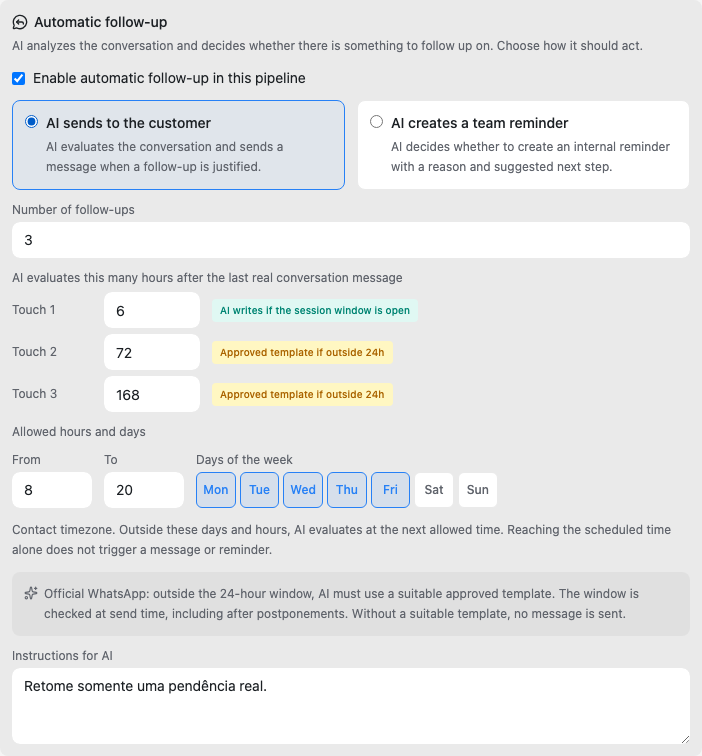
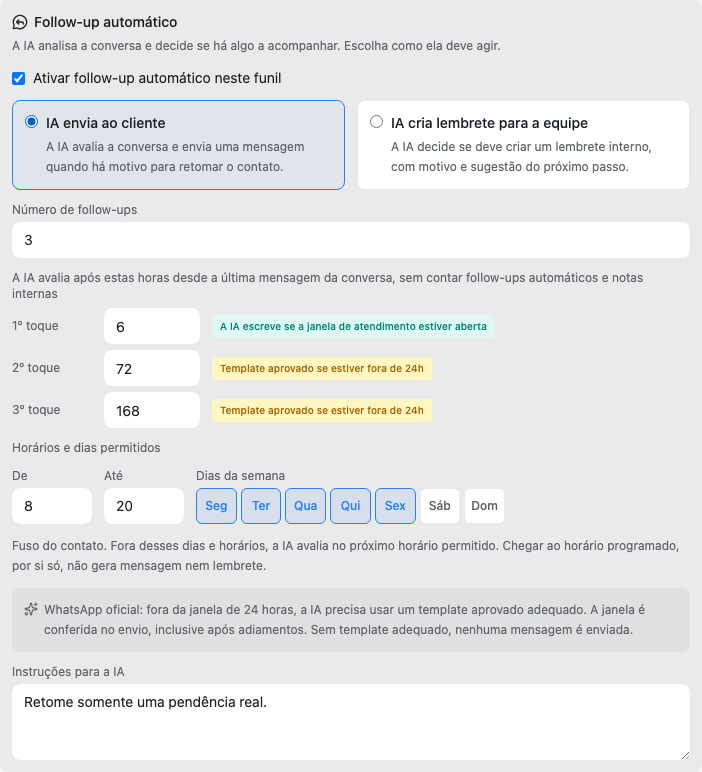
fix(crm): localize AI follow-up controls and reminders

diff --git a/app/javascript/dashboard/routes/dashboard/crm/components/CrmAiSettingsPanel.spec.js b/app/javascript/dashboard/routes/dashboard/crm/components/CrmAiSettingsPanel.spec.js
@@ -3,6 +3,7 @@ import { createI18n } from 'vue-i18n';
 import Panel from './CrmAiSettingsPanel.vue';
 import CrmKanbanAPI from 'dashboard/api/crmKanban';
 import en from 'dashboard/i18n/locale/en/crm.json';
+import pt_BR from 'dashboard/i18n/locale/pt_BR/crm.json';
 
 vi.mock('dashboard/composables', () => ({ useAlert: vi.fn() }));
 vi.mock('dashboard/api/crmKanban', () => ({
@@ -21,7 +22,7 @@ const config = () => ({
     tone_instructions: 'Retome apenas pendências reais.',
   },
 });
-const render = async () => {
+const render = async (locale = 'en') => {
   CrmKanbanAPI.getAiSettings.mockResolvedValue({ data: { payload: config() } });
   CrmKanbanAPI.updateAiSettings.mockImplementation(async (_id, body) => ({
     data: { payload: body.ai_settings },
@@ -29,7 +30,14 @@ const render = async () => {
   const wrapper = mount(Panel, {
     props: { pipelineId: 426 },
     global: {
-      plugins: [createI18n({ legacy: false, locale: 'en', messages: { en } })],
+      plugins: [
+        createI18n({
+          legacy: false,
+          locale,
+          fallbackLocale: false,
+          messages: { en, pt_BR },
+        }),
+      ],
     },
   });
   await flushPromises();
@@ -82,6 +90,24 @@ describe('AI follow-up settings', () => {
     expect(wrapper.text()).toContain('Official WhatsApp');
     wrapper.unmount();
   });
+  it('renders both actions in Portuguese without English fallback', async () => {
+    const wrapper = await render('pt_BR');
+    expect(wrapper.text()).toContain('IA envia ao cliente');
+    expect(wrapper.text()).toContain('WhatsApp oficial:');
+    expect(wrapper.get('button[aria-label="Segunda-feira"]').text()).toBe(
+      'Seg'
+    );
+    await wrapper.get('input[value="ai_reminder"]').setValue(true);
+    expect(wrapper.text()).toContain('Nenhuma mensagem é enviada ao cliente.');
+    expect(wrapper.text()).toContain('Instruções para a IA');
+    expect(wrapper.text()).not.toContain('WhatsApp oficial:');
+    expect(wrapper.text()).not.toContain('CRM_KANBAN.');
+    expect(
+      pt_BR.CRM_KANBAN.DRAWER.AUTO_FOLLOWUP.TIMELINE_TOUCH_REMINDER
+    ).toContain('lembrete para a equipe');
+    wrapper.unmount();
+  });
+
   it('reports failure to the parent when persistence fails', async () => {
     const wrapper = await render();
     CrmKanbanAPI.updateAiSettings.mockRejectedValue(new Error('unavailable'));

diff --git a/app/javascript/dashboard/components/crm/CrmFollowUpReminderModal.vue b/app/javascript/dashboard/components/crm/CrmFollowUpReminderModal.vue
@@ -8,7 +8,7 @@ import { useCrmFollowUpReminders } from 'dashboard/composables/useCrmFollowUpRem
 import { BUS_EVENTS } from 'shared/constants/busEvents';
 import { frontendURL } from 'dashboard/helper/URLHelper';
 
-const { t } = useI18n();
+const { t, locale } = useI18n();
 const router = useRouter();
 const isSaving = ref(false);
 
@@ -29,7 +29,7 @@ const cardTitle = computed(() => activeReminder.value?.card?.title || '');
 const dueLabel = computed(() => {
   const dueAt = activeReminder.value?.due_at;
   if (!dueAt) return '';
-  return new Date(dueAt).toLocaleString();
+  return new Date(dueAt).toLocaleString(locale.value.replace('_', '-'));
 });
 const modeLabel = computed(() => {
   if (activeReminder.value?.automation_mode === 'snooze_conversation') {

diff --git a/spec/services/crm/follow_ups/auto_followup_runner_spec.rb b/spec/services/crm/follow_ups/auto_followup_runner_spec.rb
@@ -268,6 +268,13 @@ RSpec.describe Crm::FollowUps::AutoFollowupRunner do
       expect(follow_up.card.reload.metadata.dig('ai', 'auto_followup_state', 'touches').last['outcome']).to eq('reminded')
     end
 
+    it 'localizes the reminder title using the account language' do
+      follow_up = reminder_setup
+      follow_up.account.update!(locale: 'pt_BR')
+      described_class.new(follow_up: follow_up, now: now).perform
+      expect(follow_up.reload.title).to eq('Lembrete da IA 1')
+    end
+
     it 'does not create a reminder when AI declines' do
       follow_up = reminder_setup
       stub_composition(status_notice.merge('should_send' => false))

diff --git a/app/services/crm/follow_ups/auto_followup_runner.rb b/app/services/crm/follow_ups/auto_followup_runner.rb
@@ -154,6 +154,7 @@ module Crm
       def create_reminder(composition)
         @follow_up.update!(
           automation_mode: :reminder_only,
+          title: I18n.t('crm.follow_up_reminder.ai_title', locale: @follow_up.account.locale, touch: touch),
           description: [composition['open_loop'], composition['message_body']].filter_map(&:presence).join("\n\n"),
           metadata: base_metadata.merge('action_mode' => 'ai_reminder')
         )

diff --git a/docs/audit/426-followup/README.md b/docs/audit/426-followup/README.md
@@ -29,7 +29,7 @@ git diff --check
 ```
 
 - RSpec: 124 casos, zero falhas, 3 pendentes preexistentes em `messaging_window_spec.rb`. Incluído novo caso ativo comprovando que uma janela oficial expirada sem template não chega ao remetente.
-- Vitest: 9 casos aprovados, incluindo propagação da falha de persistência ao drawer.
+- Vitest: 10 casos aprovados, incluindo propagação da falha de persistência ao drawer.
 - RuboCop: 14 arquivos, zero infrações.
 - ESLint: zero erros; avisos da configuração de descoberta de chaves CRM de i18n existentes no projeto.
 - Browser QA: componente Vue real, Tailwind e cores do projeto, API local de fixture para isolar a interação. A API Rails foi testada separadamente pelos request specs. Troca de modos, persistência ao recarregar, instruções preservadas, alinhamento de horário/dias no desktop e ausência de overflow em 390 px. Não representa um E2E autenticado na AWS.
@@ -43,13 +43,13 @@ Revisados dispatch, seleção de modo, gate da IA, citação verificável, cance
 
 ## Limitações para revisão
 
-As regras do projeto restringem traduções a inglês. As novas chaves estão apenas em `locale/en/crm.json`; pt_BR usa fallback em inglês, portanto não reproduz integralmente os textos em português do mockup. Não foi alterada a política de tradução sem decisão do responsável.
+A solicitação posterior de Rodrigo para cuidar do i18n nesta revisão autoriza a tradução do escopo aprovado em pt_BR. Os dois modos, agenda, instruções, validação e histórico têm tradução local. Um teste monta o componente em português sem fallback; o QA visual foi repetido nos dois modos e em 390 px, com as capturas atualizadas. O título emitido usa o idioma da conta e a data do popup usa o idioma da interface. Reexecução do runner: 21 exemplos, zero falhas; lint dos arquivos alterados sem erros.
 
 A prévia usa fixture de API; a aceitação final no drawer completo e com login no ambiente alvo permanece para a etapa de publicação autorizada. Os testes não avaliam o modelo real e não substituem uma amostra operacional após ativação.
 
 ## Publicação e rollback — preparados, não executados
 
-1. Revisar a PR, resolver a decisão de tradução, confirmar CI e identificar o ambiente AWS correto antes de pedir aprovação de merge/deploy.
+1. Revisar a PR, confirmar CI e identificar o ambiente AWS correto antes de pedir aprovação de merge/deploy.
 2. ATENÇÃO: os workflows atuais de Autonom.ia e Hub2You disparam deploy automaticamente em push na main para mudanças de código. Portanto, aprovação de merge deve considerar os dois destinos e a publicação automática, ou uma contenção operacional explicitamente aprovada antes do merge. Há também workflow_dispatch. Registrar imagem anterior e validar primeiro um funil controlado. Sem migração de schema.
 3. Não fazer rollback cego para código antigo com cadências novas pendentes: o código antigo não respeita `allowed_days` e não passa lembretes pelo novo gate.
 4. Em rollback autorizado, interromper o processamento programado durante a transição; inventariar e cancelar/reagendar os toques pendentes afetados antes de restaurar a imagem anterior. Preservar metadados e lembretes já emitidos para auditoria. Confirmar os modos e flags antes de retomar o processamento. Não basta desligar apenas a IA no código antigo, pois lembretes internos seguem outro ramo.
